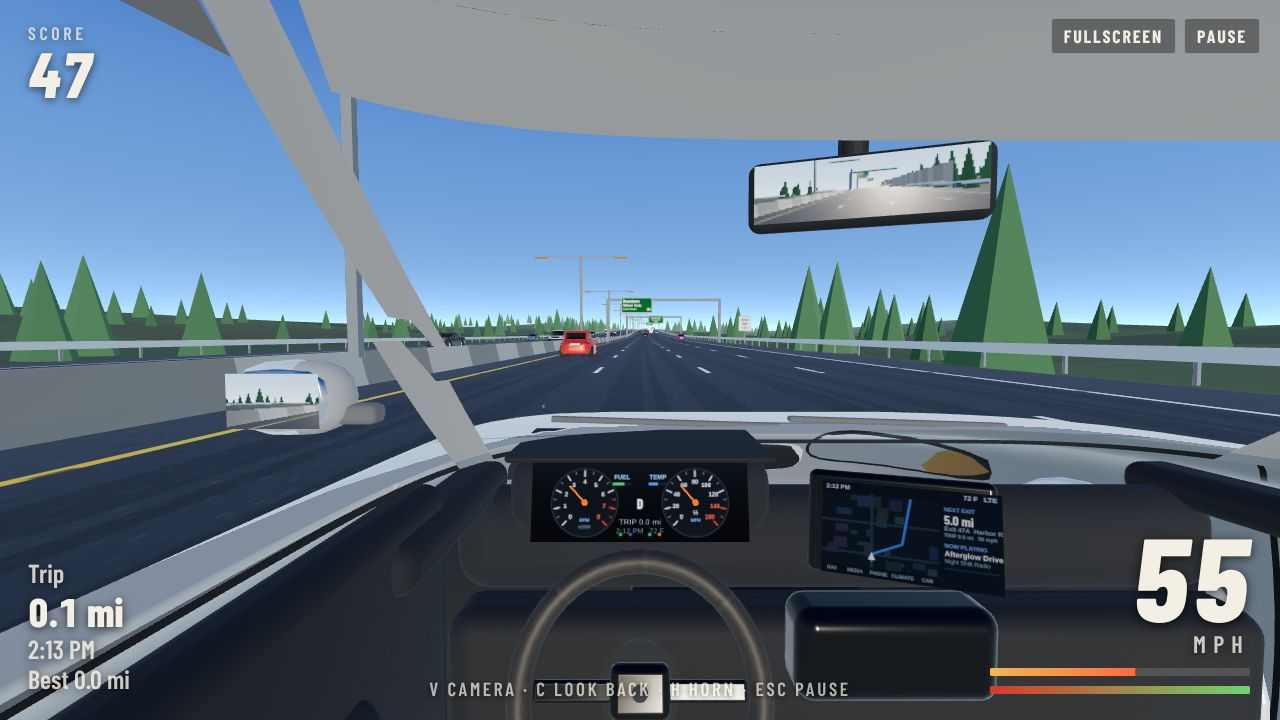
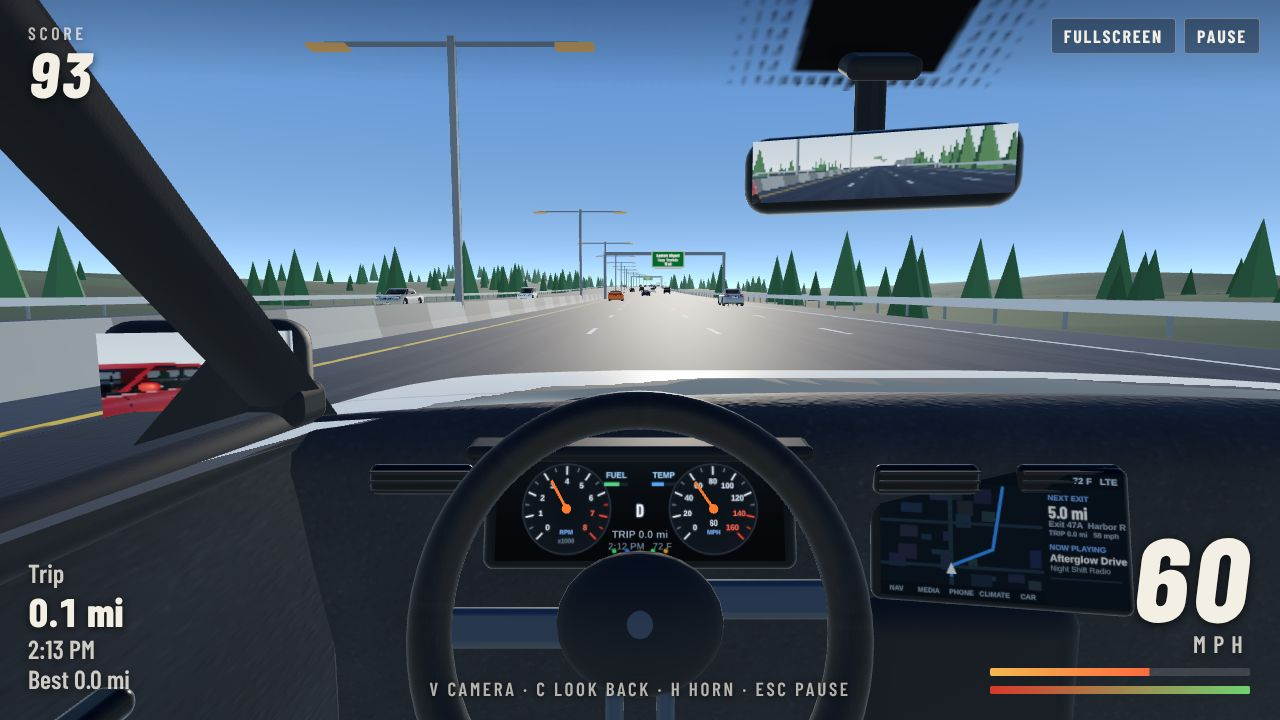
Highway: rebuilt driver's-eye cockpit (thin pillars, curved dash, wheel+cluster, door mirror) across all 12 cars (+WIP others)
Claude-Session: https://claude.ai/code/session_01M2pcvvdtExK7FSy5XwCuQZ

diff --git a/tests/e2e/pedlife5.spec.ts b/tests/e2e/pedlife5.spec.ts
@@ -1,0 +1,89 @@
+import { test, expect, type Page } from '@playwright/test';
+import { boot, quietStreets } from './helpers';
+
+/** Round 5 pedestrian life: bench sitting, bus boarding, bridge walkways. Screenshots go to PED_SHOTS (default test-results). */
+test.describe.configure({ mode: 'serial' });
+let page: Page;
+const SHOTS = process.env.PED_SHOTS ?? 'test-results';
+test.beforeAll(async ({ browser }) => { page = await browser.newPage(); await boot(page); });
+test.afterAll(async () => { await page.close(); });
+
+test('pedestrians walk across the bridge walkway at deck height', async () => {
+  test.setTimeout(300_000);
+  await quietStreets(page);
+  const r = await page.evaluate(`(() => {
+    const g = window.__game; const N = g.city.pedNodes; g.pedCap = 20;
+    const start = N.filter(n => n.y !== undefined && n.x > 560 && n.x < 580 && n.z < 200)[0];
+    const peds = [];
+    for (let k = 0; k < 3; k++) { const n = g.pop.spawn('civilian', start.x + k, start.z, start.y + 0.3); n.node = start.id; n.nextNode = start.id; peds.push(n); }
+    g.player.place(start.x + 8, start.y + 0.3, start.z, 0);
+    let minY = 99, maxY = -99, maxX = 0, alive = 0;
+    for (let i = 0; i < 90 * 30; i++) { g.frame(1 / 30, i === 90 * 30 - 1); for (const n of peds) { if (!n.alive || n.disposed) continue; if (n.pos.x > 560 && n.pos.x < 710) minY = Math.min(minY, n.pos.y); maxY = Math.max(maxY, n.pos.y); maxX = Math.max(maxX, n.pos.x); } }
+    for (const n of peds) if (n.alive && !n.disposed) alive++;
+    return { minY, maxY, maxX, alive, startY: start.y };
+  })()`) as any;
+  console.log('bridge', JSON.stringify(r));
+  await page.screenshot({ path: `${SHOTS}/ped-bridge.png`, timeout: 120_000 });
+  expect(r.alive).toBeGreaterThan(0);
+  expect(r.minY).toBeGreaterThan(2.5); // over the river span nobody is below the deck
+  expect(r.maxX).toBeGreaterThan(600);
+});
+
+test('a pedestrian walks to a bench, sits for a while, then gets up and walks on', async () => {
+  test.setTimeout(300_000);
+  const r = await page.evaluate(`(() => {
+    const g = window.__game; g.pedCap = 20; const B = g.benches.filter(b => b.y < 1 && !b.occupied);
+    const b = B[Math.floor(B.length / 2)];
+    const fx = Math.sin(b.yaw), fz = Math.cos(b.yaw);
+    g.player.place(b.x + fx * 4, 0.4, b.z + fz * 4, 0); g.cam.yaw = Math.atan2(-fx, -fz);
+    const n = g.pop.spawn('civilian', b.x + fx * 5, b.z + fz * 5, 0.2);
+    b.occupied = true; n.bench = b; n.activity = 'sit'; n.destPt = new g.player.pos.constructor(b.x + fx * 0.9, 0.2, b.z + fz * 0.9); n.brain = 'wander'; n.stateT = 0;
+    let sat = false, satFrames = 0, seatY = 0, dist = 99;
+    for (let i = 0; i < 20 * 30; i++) { g.frame(1 / 30, false); if (n.activity === 'sitting') { sat = true; satFrames++; seatY = n.pos.y; dist = Math.hypot(n.pos.x - b.x, n.pos.z - b.z); if (satFrames === 90) { g.frame(1 / 30, true); window.__shot = true; } } }
+    window.__bench = { n, b };
+    return { sat, satFrames, seatY, dist, benchY: b.y };
+  })()`) as any;
+  console.log('bench', JSON.stringify(r));
+  await page.screenshot({ path: `${SHOTS}/ped-bench.png`, timeout: 120_000 });
+  expect(r.sat).toBe(true);
+  expect(r.dist).toBeLessThan(0.6);
+  expect(Math.abs(r.seatY - r.benchY)).toBeLessThan(0.3);
+  // a scare gets them up straight away
+  const up = await page.evaluate(`(() => {
+    const g = window.__game; const { n, b } = window.__bench;
+    n.activity = 'sit'; n.bench = b; b.occupied = true; n.destPt = null;
+    const f = n.pos.clone(); f.set(b.x, 0.2, b.z); g.pop.remove(n);
+    const m = g.pop.spawn('civilian', b.x, 0.2, b.z + 0.1); b.occupied = true; m.bench = b; m.char.place(b.x, 0.2, b.z, b.yaw); m.activity = 'sit'; m.destPt = f;
+    for (let i = 0; i < 60; i++) g.frame(1 / 30, false);
+    const sitting = m.activity === 'sitting';
+    g.pop.danger(g.player.pos, 40, g.player);
+    for (let i = 0; i < 30; i++) g.frame(1 / 30, false);
+    return { sitting, brain: m.brain, collider: m.char.physicsEnabled, free: !b.occupied };
+  })()`) as any;
+  console.log('scare', JSON.stringify(up));
+  expect(up.collider).toBe(true);
+  expect(up.free).toBe(true);
+});
+
+test('people wait at a bus stop, board when the bus kneels, and riders step off', async () => {
+  test.setTimeout(400_000);
+  const r = await page.evaluate(`(() => {
+    const g = window.__game; const B = g.buses; g.trafficCap = 0; g.pedCap = 40;
+    for (const c of [...g.traffic.cars]) { g.traffic.cars.splice(g.traffic.cars.indexOf(c), 1); g.pop.remove(c.driver); g.vehicles.remove(c.v); }
+    if (g.playerVehicle) { const o = g.playerVehicle; g.exitVehicle(true); g.vehicles.remove(o); }
+    const st = B.routes[0].stops[0]; g.player.place(st.x - st.dz * 6 + st.dx * 60, 0.4, st.z + st.dx * 6 + st.dz * 60, 0);
+    let seenQueue = 0, shot = false;
+    const boarded0 = B.stats.boarded;
+    for (let i = 0; i < 300 * 30; i++) {
+      g.frame(1 / 30, false);
+      const q = (B.waiting.get(st) ?? []).length; seenQueue = Math.max(seenQueue, q);
+      if (!shot && B.runs.some(r => r.waiting) && B.boarding.length) { shot = true; g.player.place(st.x - st.dz * 5 - st.dx * 8, 0.4, st.z + st.dx * 5 - st.dz * 8, 0); g.cam.yaw = Math.atan2(st.dx * 8 + st.dz * 0, st.dz * 0 + st.dz); for (let k = 0; k < 20; k++) g.frame(1 / 30, k === 19); }
+      if (B.stats.boarded > boarded0 && i > 600) break;
+    }
+    return { queued: B.stats.queued, seenQueue, boarded: B.stats.boarded - boarded0, stops: B.stats.stops };
+  })()`) as any;
+  console.log('busboard', JSON.stringify(r));
+  await page.screenshot({ path: `${SHOTS}/ped-busstop.png`, timeout: 120_000 });
+  expect(r.queued).toBeGreaterThan(0);
+  expect(r.boarded).toBeGreaterThan(0);
+});

diff --git a/src/vehicles/helicopter.ts b/src/vehicles/helicopter.ts
@@ -35,6 +35,8 @@ export class Helicopter {
   health = 1400; maxHealth = 1400;
   /** AI-flown (army / police air unit): never tidied away while far from the player */
   aiOwned = false;
+  /** seconds since the wreck burnt out its explosion (0 = not wrecked yet): drives lingering fires and smoke */
+  wreckT = 0; scorch: THREE.Mesh | null = null;
   /** world-space aim of the chin turret (army variant) */
   gunAim = { yaw: 0, pitch: 0 };
   destroyed = false; burnTime = 0; flashT = 0;
@@ -199,6 +201,21 @@ export class Helicopter {
     return false;
   }
 
+  /** The final blast has gone off: char the hull, bend it, stop and snap the rotor, leave a scorch mark (the collider stays). */
+  wreck(scene: THREE.Object3D) {
+    if (this.wreckT > 0) return;
+    this.wreckT = 0.001; this.rotor = 0;
+    const m = this.model;
+    m.paint.color.setScalar(0.07); m.paint.roughness = 0.95; m.paint.metalness = 0; m.paint.clearcoat = 0;
+    for (const mat of m.materials) { const mm = mat as THREE.MeshStandardMaterial; if (mm.color && mm !== m.paint && !(mm as unknown as THREE.MeshBasicMaterial).map) mm.color.multiplyScalar(0.25); }
+    m.mainRotor.rotation.set(0.0, this.rotorAngle, 0.35); m.blades.visible = true; (m.blades.material as THREE.MeshStandardMaterial).opacity = 1; m.disc.visible = m.tailDisc.visible = false;
+    m.tailRotor.visible = false; m.beacon.visible = false; for (const s of m.strobes) s.visible = false;
+    this.visual.rotation.z = (Math.random() < 0.5 ? -1 : 1) * 0.16; this.visual.scale.set(1.04, 0.86, 0.94); this.visual.position.y -= 0.1; // slumped, buckled hull
+    if (m.turret) m.turret.rotation.y = 1.1;
+    const g = new THREE.Mesh(new THREE.CircleGeometry(4.2, 24).rotateX(-Math.PI / 2), new THREE.MeshBasicMaterial({ color: '#050505', transparent: true, opacity: 0.6, depthWrite: false, polygonOffset: true, polygonOffsetFactor: -4, polygonOffsetUnits: -4 }));
+    const p = this.group.position; g.position.set(p.x, p.y + HELI_GROUND - this.agl + 0.06, p.z); scene.add(g); this.scorch = g;
+  }
+
   // ------------------------------------------------------------------------------------------- visuals
   update(dt: number, time: number, night: number) {
     this.syncTransform();
@@ -241,6 +258,7 @@ export class Helicopter {
     for (let i = 0; i < b.numColliders(); i++) this.phys.physics.untag(b.collider(i));
     this.phys.physics.world.removeRigidBody(b);
     this.group.removeFromParent();
+    if (this.scorch) { this.scorch.removeFromParent(); this.scorch.geometry.dispose(); (this.scorch.material as THREE.Material).dispose(); this.scorch = null; }
     this.model.root.traverse(o => { const mm = o as THREE.Mesh; if (mm.isMesh) mm.geometry.dispose(); });
     for (const m of this.model.materials) m.dispose();
     this.driver = null;

diff --git a/tests/e2e/armybase.spec.ts b/tests/e2e/armybase.spec.ts
@@ -103,10 +103,10 @@ test('Fort Calder: guards on foot, far silhouette, missile strike and a shot-dow
     return { ok: true, hp: h.health / h.maxHealth };
   });
   expect(down.ok).toBe(true);
-  const trackHeli = async (name: string, secs: number) => {
+  const trackHeli = async (name: string, secs: number, d = 30) => {
     await page.evaluate((secs) => { const g = (window as any).__game; for (let i = 0; i < secs * 30; i++) g.frame(1 / 30, false); }, secs);
     if (!SHOT) return;
-    await page.evaluate(() => { const g = (window as any).__game; const h = g.armyAir.units[0]?.heli ?? g.helis.list.find((x: any) => x.variant === 'army' && x.aiOwned); g.frame(1 / 30, true); const c = g.renderer.camera; const p = h.position; c.position.set(p.x - 30, p.y + 6, p.z - 30); c.lookAt(p.x, p.y, p.z); c.updateMatrixWorld(); g.renderer.render(); });
+    await page.evaluate((d) => { const g = (window as any).__game; const h = g.armyAir.units[0]?.heli ?? g.helis.list.find((x: any) => x.variant === 'army' && x.aiOwned); g.frame(1 / 30, true); const c = g.renderer.camera; const p = h.position; c.position.set(p.x - d, p.y + d * 0.2, p.z - d); c.lookAt(p.x, p.y, p.z); c.updateMatrixWorld(); g.renderer.render(); }, d);
     await page.screenshot({ path: `${SHOT}/${name}.png` });
   };
   await trackHeli('down-smoke', 1);
@@ -114,6 +114,10 @@ test('Fort Calder: guards on foot, far silhouette, missile strike and a shot-dow
   await trackHeli('down-falling', 1.5);
   const crashed = await page.evaluate(() => { const g = (window as any).__game; for (let i = 0; i < 30 * 10; i++) g.frame(1 / 30, false); const h = g.armyAir.units[0].heli; return { destroyed: h.destroyed, burn: h.burnTime }; });
   expect(crashed.destroyed).toBe(true);
-  await trackHeli('down-wreck', 0.5);
+  // the wreck: charred, slumped, smouldering for ~30 s, still solid
+  await page.evaluate(() => { const g = (window as any).__game; for (let i = 0; i < 30 * 8; i++) g.frame(1 / 30, false); });
+  const wreck = await page.evaluate(() => { const g = (window as any).__game; const h = g.armyAir.units[0].heli; return { t: h.wreckT, scorch: !!h.scorch, solid: h.phys.body.numColliders() > 0, rotor: h.rotor }; });
+  expect(wreck.t).toBeGreaterThan(0); expect(wreck.scorch).toBe(true); expect(wreck.solid).toBe(true); expect(wreck.rotor).toBe(0);
+  await trackHeli('down-wreck', 1, 9);
   clean(pr);
 });

diff --git a/src/render/particles.ts b/src/render/particles.ts
@@ -169,6 +169,10 @@ export class Particles {
     for (let i = 0; i < 40; i++) { const a = Math.random() * Math.PI * 2, s = (4 + Math.random() * 8) * scale; this.add.emit(this.p(x, y, z, { vx: Math.cos(a) * s, vy: (2 + Math.random() * 8) * scale, vz: Math.sin(a) * s, max: 0.5 + Math.random() * 0.5, size: (1.4 + Math.random()) * scale, grow: 1.2, r: 1, g: 0.5 + Math.random() * 0.3, b: 0.15, a: 1, drag: 3 })); }
     for (let i = 0; i < 26; i++) this.normal.emit(this.p(x, y + 0.5, z, { vx: (Math.random() - 0.5) * 6, vy: 2 + Math.random() * 5, vz: (Math.random() - 0.5) * 6, max: 2.5 + Math.random() * 1.5, size: 1.6, grow: 2.5, r: 0.22, g: 0.21, b: 0.22, a: 0.65, drag: 1.4, grav: -0.4 }));
     this.sparks(x, y + 0.5, z, 30, 14);
+    // smoke column: slow, dark, rising for several seconds
+    for (let i = 0; i < 16; i++) this.normal.emit(this.p(x + (Math.random() - 0.5) * 1.2 * scale, y + 0.8 + i * 0.35 * scale, z + (Math.random() - 0.5) * 1.2 * scale, { vx: (Math.random() - 0.5) * 1.2, vy: (2.2 + Math.random() * 2.2) * scale, vz: (Math.random() - 0.5) * 1.2, max: 4 + Math.random() * 2.5, size: 1.5 * scale, grow: 2.2, r: 0.12, g: 0.115, b: 0.12, a: 0.6, drag: 0.5, grav: -0.5 }));
+    // flying debris chunks that tumble and land
+    for (let i = 0; i < 18; i++) { const a = Math.random() * Math.PI * 2, s = (3 + Math.random() * 9) * scale; this.debris.emit(this.p(x, y + 0.4, z, { vx: Math.cos(a) * s, vy: (4 + Math.random() * 9) * scale, vz: Math.sin(a) * s, max: 2.8, size: 0.07 + Math.random() * 0.07, r: 0.1, g: 0.1, b: 0.1, a: 1, drag: 0.3, grav: 12, hold: 0.9, floor: Math.min(y, 0.2), bounce: 0.3 })); }
   }
   splash(x: number, y: number, z: number, n = 14) { for (let i = 0; i < n; i++) this.normal.emit(this.p(x, y, z, { vx: (Math.random() - 0.5) * 4, vy: 2 + Math.random() * 4, vz: (Math.random() - 0.5) * 4, max: 0.8, size: 0.25, grow: 1, r: 0.9, g: 0.97, b: 1, a: 0.7, drag: 1, grav: 12 })); }
   get count() { return this.add.count + this.normal.count + this.debris.count; }

diff --git a/src/vehicles/helicopterManager.ts b/src/vehicles/helicopterManager.ts
@@ -163,6 +163,15 @@ export class HeliManager {
         if (dist < 300) { this.particles.fire(p.x, p.y, p.z, 1.2); if (Math.random() < 0.5) this.particles.smoke(p.x, p.y + 0.6, p.z, 0.95, 1.5); }
         if ((h.agl < 0.6 && h.burnTime > 0.6) || h.burnTime > 7) { h.burnTime = -1; this.explode(h); }
       }
+      // the wreck smoulders for ~30 s: small fires, a thinning smoke column
+      if (h.destroyed && h.wreckT > 0) {
+        h.wreckT += dt;
+        if (h.wreckT < 30 && dist < 220) {
+          const k = 1 - h.wreckT / 30, q = h.group.localToWorld(new THREE.Vector3((Math.random() - 0.5) * 1.2, 0.5, -0.6 + Math.random() * 2));
+          if (Math.random() < 0.5 * k + 0.08) this.particles.fire(q.x, q.y, q.z, 0.35 + 0.4 * k);
+          if (Math.random() < 0.55 * k + 0.1) this.particles.smoke(q.x, q.y + 0.5, q.z, 0.9, 1.4);
+        }
+      }
       // tidy wrecks and choppers left far away
       if (h !== playerHeli && !h.driver && !h.aiOwned && h.position.distanceTo(focus) > 380 && !this.pads.some(s => s.heli === h)) this.remove(h);
     }
@@ -178,6 +187,7 @@ export class HeliManager {
   }
   explode(h: Helicopter) {
     const p = h.position.clone();
+    h.wreck(this.scene);
     this.particles.explosion(p.x, p.y + 0.5, p.z, 1.4);
     this.audio.play('explosion', { pos: p, volume: 1 });
     h.phys.body.applyImpulse({ x: 0, y: h.phys.body.mass() * 6, z: 0 }, true);

diff --git a/src/combat/combat.ts b/src/combat/combat.ts
@@ -525,7 +525,7 @@ export class Combat {
   explode(at: THREE.Vector3, by: Character | null, scale = 1, w: WeaponDef = WEAPONS.grenade) {
     this.particles.explosion(at.x, at.y, at.z, scale);
     this.audio.play('explosion', { pos: at, volume: Math.min(1.5, scale) });
-    this.flash.position.copy(at).y += 1; this.flashT = FLASH_T * 3; this.flashPeak = 160 * scale;
+    this.flash.position.copy(at).y += 1; this.flashT = FLASH_T * 2.5; this.flashPeak = 26 * scale; // short (~0.15 s) flash; intensity = peak * (t/FLASH_T)^2, so ~160 at the first frame, gone fast (no white-out)
     const R = 8 * scale;
     for (const c of this.targets()) {
       if (!c.alive || !c.inVehicle) continue;

diff --git a/src/game/game.ts b/src/game/game.ts
@@ -28,6 +28,7 @@ import { Population } from './population';
 import { Traffic } from './traffic';
 import { Crowd } from './crowd';
 import { BusService } from './buses';
+import { BENCHES } from '../world/benches';
 import { Police, type Crime } from './police';
 import type { Npc } from '../actors/npc';
 import { WEAPONS } from '../combat/weapons';
@@ -83,6 +84,8 @@ export class Game {
   traffic!: Traffic;
   crowd!: Crowd;
   buses!: BusService;
+  /** every bench in the world (debug / tests) */
+  readonly benches = BENCHES;
   police!: Police;
   playerVehicle: Vehicle | null = null;
   /** the car the player last got out of (kept out of mission clean-ups) */

diff --git a/docs/PROGRESS.md b/docs/PROGRESS.md
@@ -11,7 +11,7 @@ Resume: read CLAUDE.md, docs/BRIEF5.md, this file. Continue unfinished items. Ow
 - [x] R5-W World (W2 done: pier shoulder exact, denser quay, re-shoots, real precinct cars, bridge walkways, Eastbank signals): visible traffic lights, no posts in crosswalks/cross streets, pier road shoulder, East River volume, bridge top glitch, roof flicker from air, Precinct 4 looks like a precinct.
 - [x] R5-A Army (+A2 far LOD, guards, shed roof, sandbox gunship, heli seat teleport fix; A3: flash + wreck look): base further out, real base look, armed army helis (guns+missiles) attack + stealable; heli door opens outward.
 - [x] R5-M Map (+M2 declutter, collapsible legend, cached pan layer): 3D-looking map (extruded buildings, shading) for full map + minimap.
-- [ ] R5-G Gaps (fix, don't report): highway cockpit polish (thick A-pillar, small wheel, check all 12 cars, live infotainment clock/map, real mirror views); city buses + bus stops; peds sit on benches; peds walk bridge walkways (walkways built); Eastbank signals; run soak.
+- [ ] R5-G Gaps: [x] highway cockpit (rebuilt, all 12 cars, live mirrors/infotainment) [x] buses; T3 running: bus boarding, bench sitting, peds on bridge walkways; Eastbank signals; run soak.
 - [ ] R5-Z Gate + publish (soak included).
 
 ## Round 4 (hyper-realism night, 02:40-12:00 UTC)
